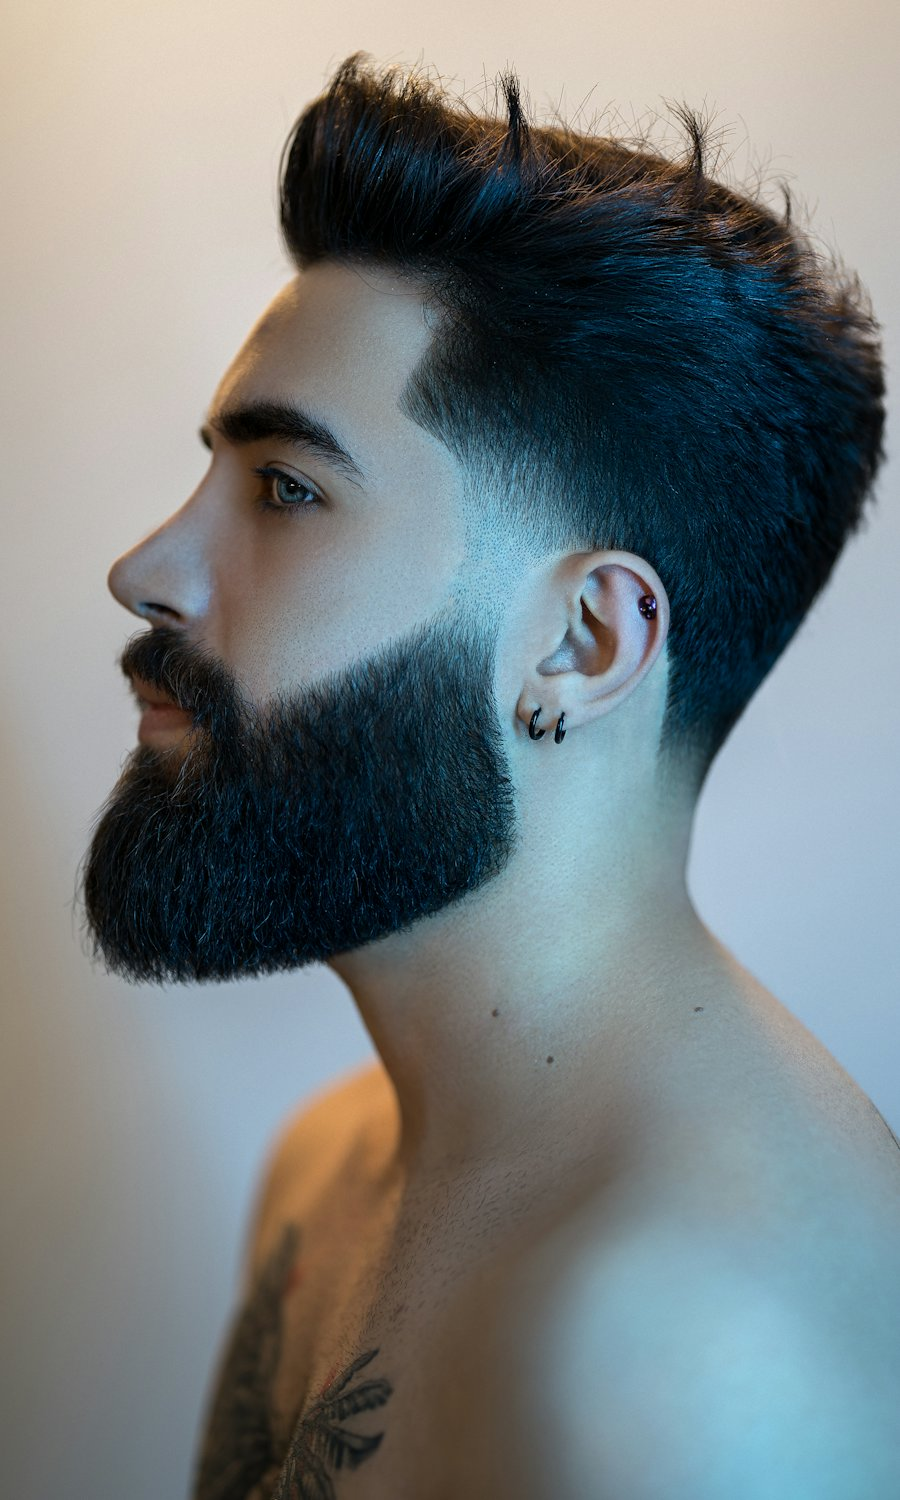
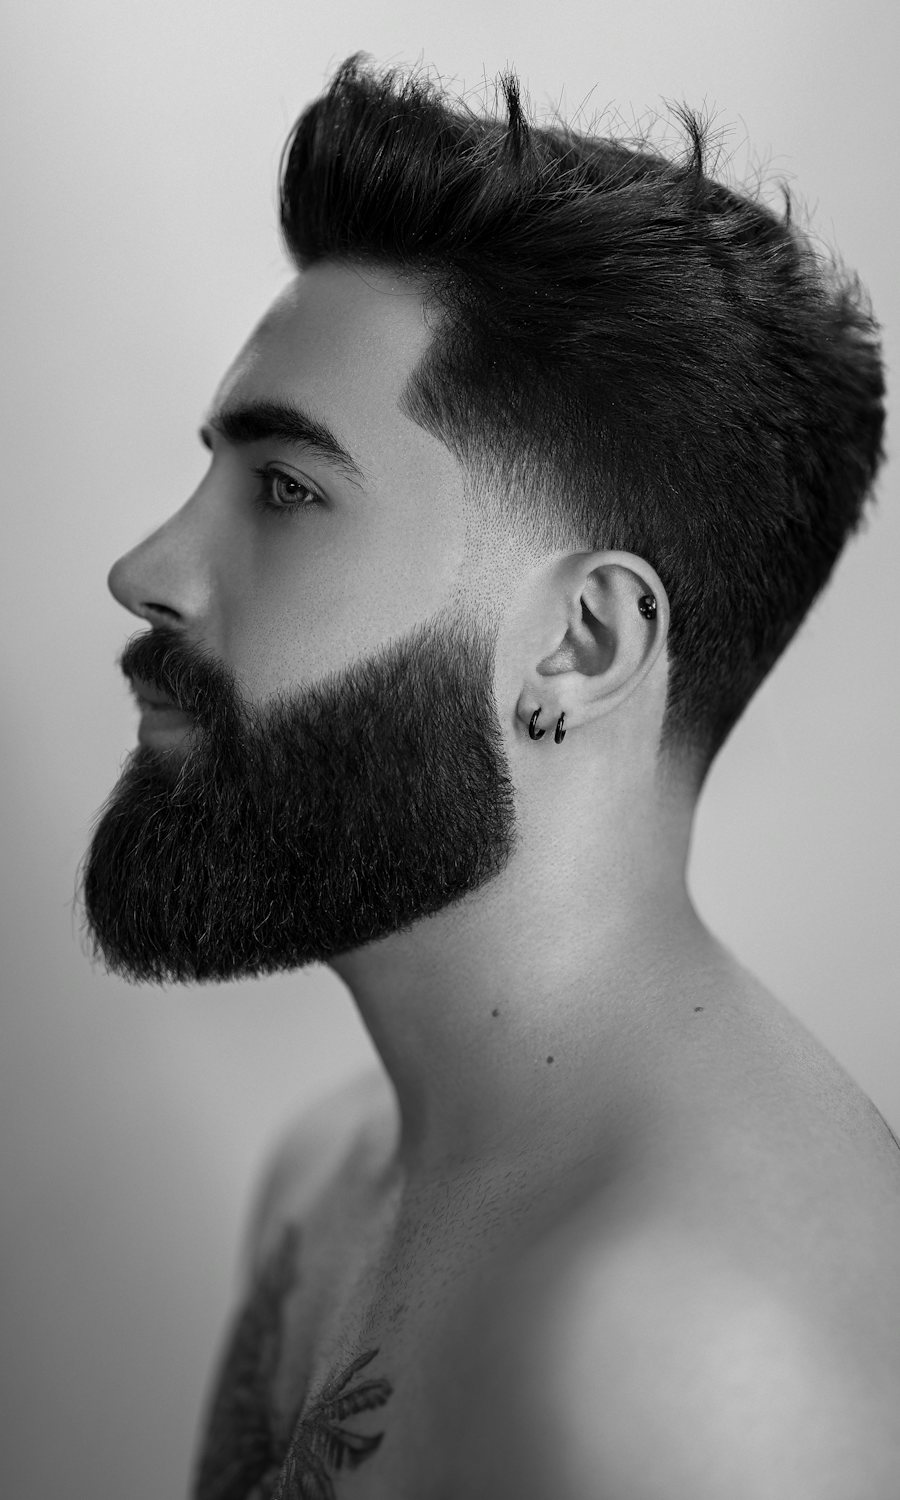
Foto in bianco e nero per tutte le task
Foto da Unsplash (licenza Unsplash).

diff --git a/index.html b/index.html
@@ -879,13 +879,19 @@ function completeFocus(item, card) {
 
 // Foto di sfondo della card (Unsplash), scelte in base al testo della task.
 const PHOTOS = [
-  [/ciotole gatti: acqua/i, "img/gatti-ciotole.jpg"],
-  [/rifai il letto/i, "img/letto.jpg"],
-  [/minoxidil|dermaroller|barba/i, "img/barba.jpg"]
+  [/ciotole gatti: acqua/i, "gatti-ciotole"], [/rifai il letto/i, "letto"], [/minoxidil|dermaroller|barba/i, "barba"],
+  [/piatti/i, "piatti"], [/giro di 3 minuti/i, "riordino"], [/pranzo/i, "pranzo"], [/colazione/i, "colazione"],
+  [/wc e lavandino/i, "wc-lavandino"], [/specchio e rubinetteria/i, "specchio"], [/spazzola i gatti/i, "gatti-spazzola"],
+  [/aspira soggiorno/i, "aspirapolvere"], [/lettiera/i, "lettiera"], [/ciotole gatti lavate/i, "ciotole-lavare"],
+  [/spesa/i, "spesa"], [/pavimenti/i, "pavimenti"], [/asciugamani/i, "asciugamani"], [/doccia/i, "doccia"],
+  [/scarichi/i, "scarichi"], [/sanitari/i, "sanitari"], [/sotto il letto/i, "sotto-letto"], [/comodini/i, "comodino"],
+  [/armadio/i, "armadio"], [/frigo/i, "frigo"], [/dispensa/i, "dispensa"], [/forno/i, "forno"],
+  [/polvere su tutte/i, "polvere"], [/battiscopa/i, "battiscopa"], [/vetri e specchi/i, "vetri"],
+  [/lenzuola/i, "lenzuola"], [/raccolta/i, "raccolta"]
 ];
 function photoFor(item) {
   const hit = PHOTOS.find(([re]) => re.test(item.text) || re.test(item.block.title));
-  return hit ? hit[1] : null;
+  return hit ? "img/" + hit[1] + ".jpg" : null;
 }
 
 const PRAISE = ["Fatto!", "Una in meno", "Bene così", "Avanti", "Ottimo", "Vai così", "Perfetto", "Spuntata"];
